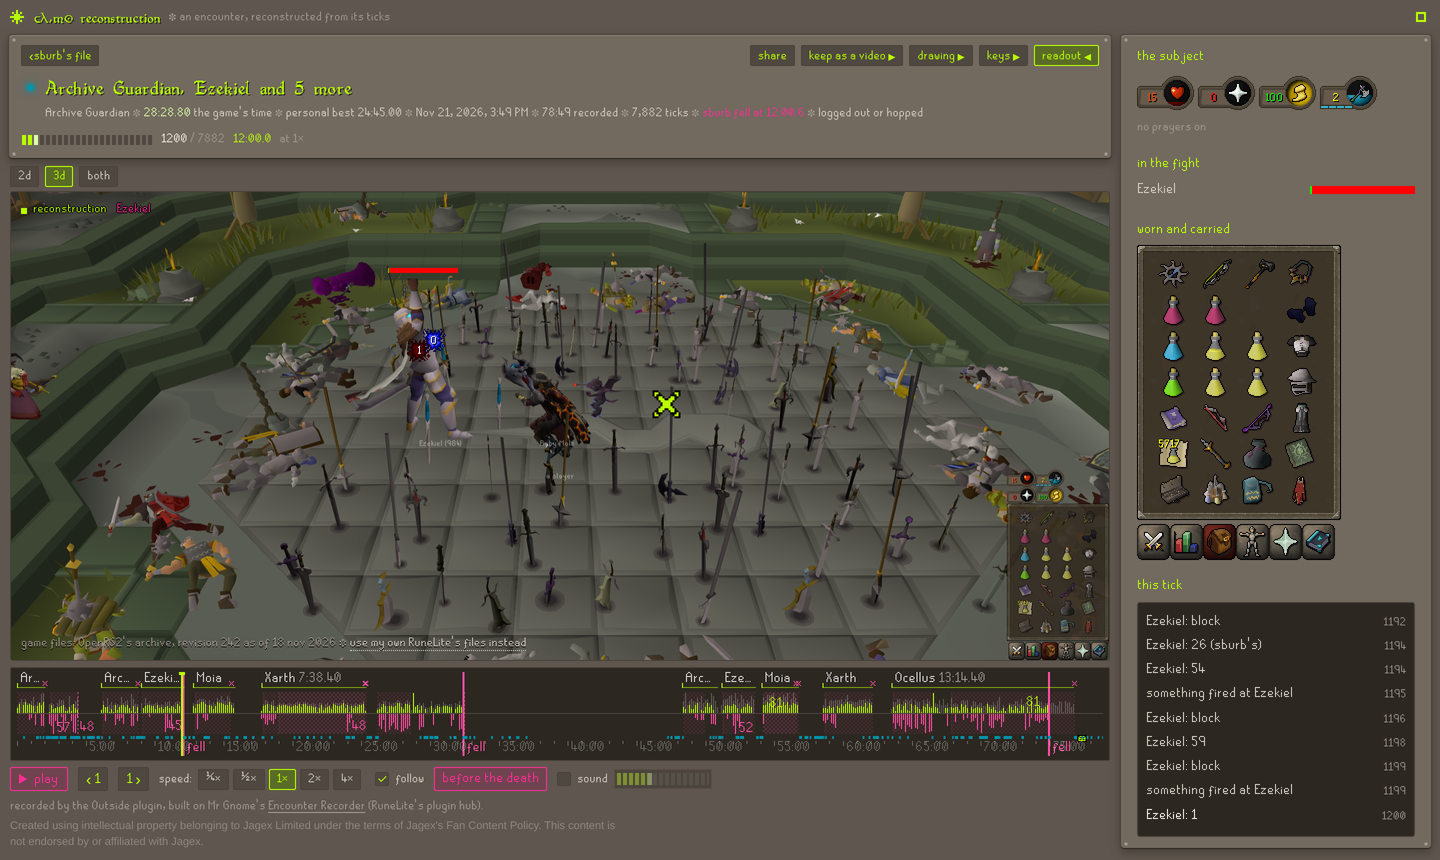
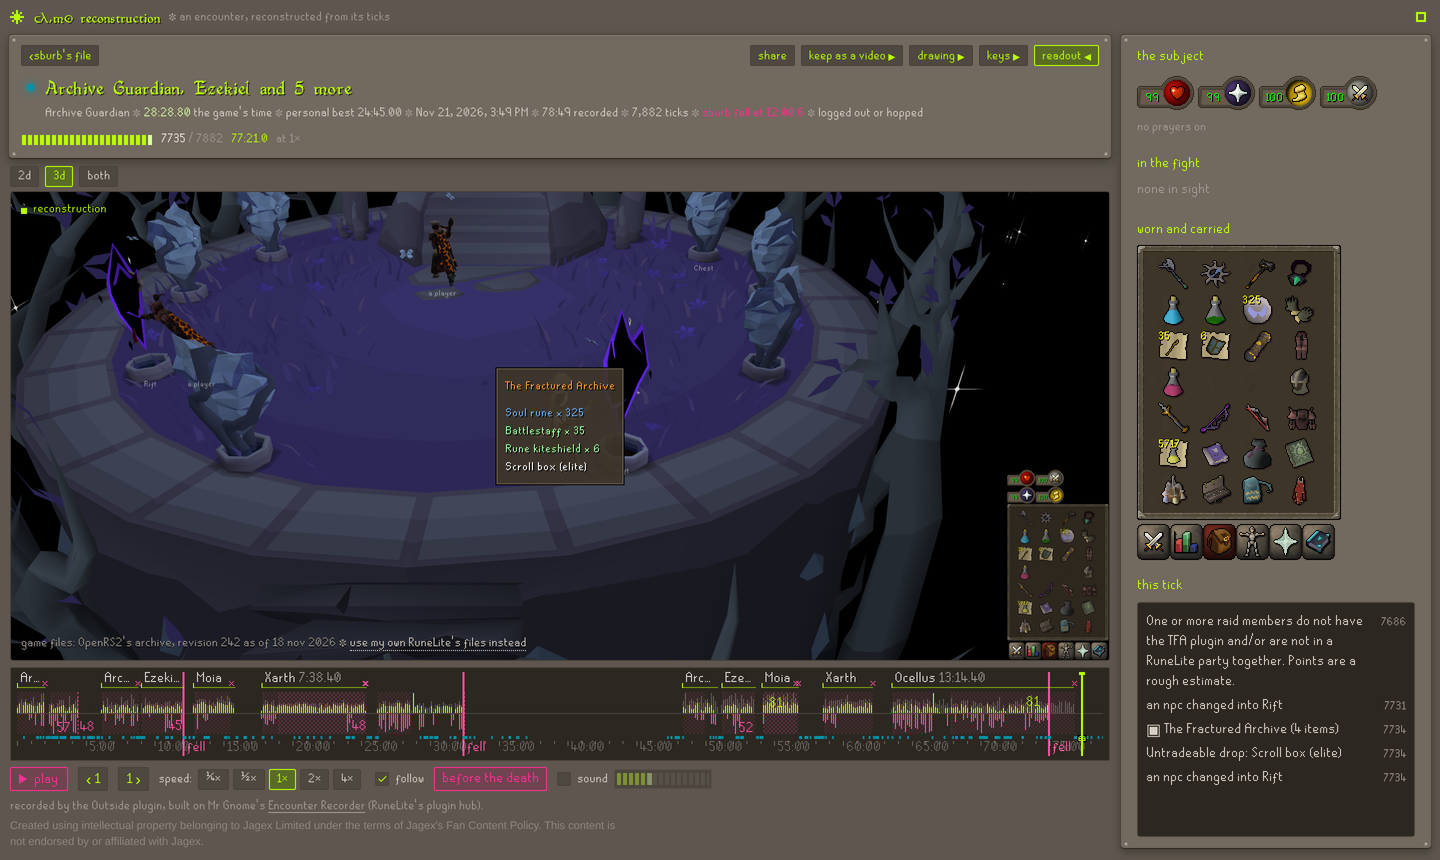
The Hub's README: the new pictures (Jace's angle, the reward chest, his side tab)
Claude-Session: https://claude.ai/code/session_015m6iunNsuJ3to6ksw3SC2o

diff --git a/plugin/README.hub.md b/plugin/README.hub.md
@@ -7,19 +7,19 @@
 
 **Your page** (outside.wiki/sburb)
 
-![A player's page on Outside.wiki: their card, their featured fight, their character in 3D with their pet, what they carry and their goal](https://raw.githubusercontent.com/jhmcubed/outside-plugin/bdd4884199aecc91d20cde2522b0d7b5eb7b082f/assets/page.png)
+![A player's page on Outside.wiki: their card, their featured fight, their character in 3D with their pet, what they carry and their goal](https://raw.githubusercontent.com/jhmcubed/outside-plugin/ccc6cc629ff90f7f5d5824728c671c6d21531974/assets/page.png)
 
-**Your boss fights, replayed** in 2D or 3D, every boss of a raid on one line
+**Your boss fights, replayed** in 2D or 3D, every boss of a raid on one line, down to the reward chest
 
-![A Fractured Archive raid replayed on Outside.wiki: the fight in 3D, the subject's gear and prayers, the bosses along the timeline](https://raw.githubusercontent.com/jhmcubed/outside-plugin/bdd4884199aecc91d20cde2522b0d7b5eb7b082f/assets/replay.png)
+![A Fractured Archive raid replayed on Outside.wiki: the treasure room in 3D with the chest's reward window, the subject's gear, the bosses along the timeline](https://raw.githubusercontent.com/jhmcubed/outside-plugin/ccc6cc629ff90f7f5d5824728c671c6d21531974/assets/replay.png)
 
 **Every kill, every best**
 
-![Entities slain: each boss's kill count, best time and rank](https://raw.githubusercontent.com/jhmcubed/outside-plugin/bdd4884199aecc91d20cde2522b0d7b5eb7b082f/assets/entities-slain.png)
+![Entities slain: each boss's kill count, best time and rank](https://raw.githubusercontent.com/jhmcubed/outside-plugin/ccc6cc629ff90f7f5d5824728c671c6d21531974/assets/entities-slain.png)
 
 **The side tab in RuneLite**
 
-![The Outside side tab: the page's address, Update my page, Open my page, Edit my page, and the Page, Model and Encounters tabs](https://raw.githubusercontent.com/jhmcubed/outside-plugin/bdd4884199aecc91d20cde2522b0d7b5eb7b082f/assets/side-tab.png)
+![The Outside side tab's three tabs: Page (goals, who sees it, Dink, the register, the aether, the key), Model (capture your character, a still or a motion) and Encounters (recorded fights, kept for good, featured)](https://raw.githubusercontent.com/jhmcubed/outside-plugin/ccc6cc629ff90f7f5d5824728c671c6d21531974/assets/side-tab.png)
 
 ## What it does
 
